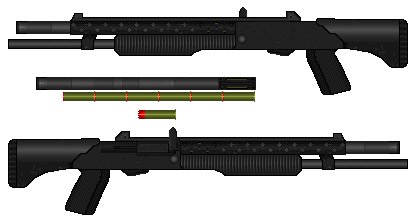
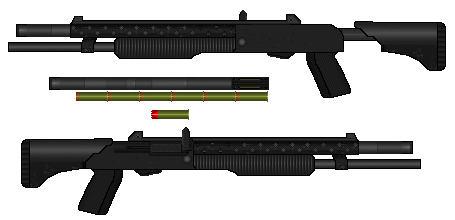
Add files via upload

diff --git a/WIM_EQ_Arms.html b/WIM_EQ_Arms.html
@@ -766,6 +766,62 @@ function includeHTML() {
 
 <Table width=1325 cellpadding=0 border=1 cellspacing=0>
 <TR>
+	<TH style="width:1325px; color:#EFEFEF; font-size:16px; font-family:Calibri;" colspan=6>Equestrian Rifle 2, "Mitchell"</TH>
+</TR>
+<TR>
+	<TH style="width:700px" rowspan=11><img src=EQ_ER2.png></TH>
+</TR>
+<TR>
+	<TD style="width:175px; color:#EFEFEF; font-size:16px; font-family:Courier;"><b>WEAPON TYPE:</TD>
+    <TD style="width:450px; color:#F0F0F0; font-size:14px; font-family:Courier;">Battle Rifle (Pegasi)</TD>
+</TR>
+<TR>
+	<TD style="width:175px; color:#EFEFEF; font-size:16px; font-family:Courier;"><b>MANUFACTURERS:</TD>
+	<TD style="width:450px; color:#F0F0F0; font-size:14px; font-family:Courier;">Appleloosa Equestrian Military Arsenal</TD>
+</TR>
+<TR>
+	<TD style="width:175px; color:#EFEFEF; font-size:16px; font-family:Courier;"><b>VARIANT MARKS:</TD>
+	<TD style="width:450px; color:#F0F0F0; font-size:14px; font-family:Courier;"><I>No official mark variations</TD>
+</TR>
+<TR>
+	<TD style="width:175px; color:#EFEFEF; font-size:16px; font-family:Courier;"><b>CALIBER:</TD>
+	<TD style="width:450px; color:#F0F0F0; font-size:14px; font-family:Courier;">9x35mm Equestrian</TD>
+</TR>
+<TR>
+	<TD style="width:175px; color:#EFEFEF; font-size:16px; font-family:Courier;"><b>CAPACITY:</TD>
+	<TD style="width:450px; color:#F0F0F0; font-size:14px; font-family:Courier;">10/20/30 Round Detachable Box Magazine</TD>
+</TR>
+<TR>
+	<TD style="width:175px; color:#EFEFEF; font-size:16px; font-family:Courier;"><b>EFFECTIVE RANGE:</TD>
+	<TD style="width:450px; color:#F0F0F0; font-size:14px; font-family:Courier;">200 meters</TD>
+</TR>
+<TR>
+	<TD style="width:175px; color:#EFEFEF; font-size:16px; font-family:Courier;"><b>BARREL LENGTH:</TD>
+	<TD style="width:450px; color:#F0F0F0; font-size:14px; font-family:Courier;">356mm/14 inches</TD>
+</TR>
+<TR>
+	<TD style="width:175px; color:#EFEFEF; font-size:16px; font-family:Courier;"><b>OVERALL LENGTH:</TD>
+	<TD style="width:450px; color:#F0F0F0; font-size:14px; font-family:Courier;">822mm/32.36 inches</TD>
+</TR>
+<TR>
+	<TD style="width:175px; color:#EFEFEF; font-size:16px; font-family:Courier;"><b>OVERALL HEIGHT:</TD>
+	<TD style="width:450px; color:#F0F0F0; font-size:14px; font-family:Courier;">198mm/7 inches</TD>
+</TR>
+<TR>
+	<TD style="width:175px; color:#EFEFEF; font-size:16px; font-family:Courier;"><b>TOTAL MASS:</TD>
+	<TD style="width:450px; color:#F0F0F0; font-size:14px; font-family:Courier;">9.1lbs/4.1kg</TD>
+</TR>
+<TR>
+</TR>
+<TR>
+	<TD width=1325 colspan=6><center><table width=1310><TR><TD>Pegasi air support, the only thing available for the first 1/3rd of the war, required a special rifle. The standard Sherman had no way to be secured to a Pegasi during flight. So, a special stock and grip module was adapted. Shaped like a triangle, with the narrow point towards the bottom of the grip, the struts on the side allow a Pegasi to lay their entire foreleg into the stock, and strap it in place, so they can securely hold the weapon with just one foreleg while in flight. While handy, development of the Sherman's replacement rendered this solution obsolete.</TD></TR></Table></TD>
+</TR>
+</Table>
+
+<HR style="width:800px;">
+
+<Table width=1325 cellpadding=0 border=1 cellspacing=0>
+<TR>
 	<TH style="width:1325px; color:#EFEFEF; font-size:16px; font-family:Calibri;" colspan=6>Equestrian Shotgun 1, "Chaffee"</TH>
 </TR>
 <TR>
@@ -801,7 +857,7 @@ function includeHTML() {
 </TR>
 <TR>
 	<TD style="width:175px; color:#EFEFEF; font-size:16px; font-family:Courier;"><b>OVERALL LENGTH:</TD>
-	<TD style="width:450px; color:#F0F0F0; font-size:14px; font-family:Courier;">800mm/31.5 inches</TD>
+	<TD style="width:450px; color:#F0F0F0; font-size:14px; font-family:Courier;">800mm/31.5 inches (stock retracted)<BR>876mm/34.5 inches (stock extended)</TD>
 </TR>
 <TR>
 	<TD style="width:175px; color:#EFEFEF; font-size:16px; font-family:Courier;"><b>OVERALL HEIGHT:</TD>
@@ -814,7 +870,8 @@ function includeHTML() {
 <TR>
 </TR>
 <TR>
-	<TD width=1325 colspan=6><center><table width=1310><TR><TD>Combat shotguns aren't often used in Human warfare, but in Equestria, where most things are scaled to about 3/4ths of that of Earth, a Combat Shotgun with decent reach can be nearly as effective as a sub-machine gun, and certainly with more power. The Chaffee is deployed by Rangers, Engineers, and some Line Infantry formations. With Sabot Slugs, it has an effective range longer than a Zhukov, with slight armor penetration ability.</TD></TR></Table></TD>
+	<TD width=1325 colspan=6><center><table width=1310><TR><TD>Combat shotguns aren't often used in Human warfare, but in Equestria, where most things are scaled to about 3/4ths of that of Earth, a Combat Shotgun with decent reach can be nearly as effective as a sub-machine gun, and certainly with more power. The Chaffee is deployed by Rangers, Engineers, and some Line Infantry formations. With Sabot Slugs, it has an effective range longer than a Zhukov, with slight armor penetration ability.<BR>
+	The mechanism of the Chaffee is quite unusual. The barrel from which the projectiles are fired, is on the bottom. The magazine is on the top. Because hand-feeding shells in a combat situation for non-Unicorns is very difficult, it was decided that an ejecting magazine with an automatic bolt catch would be the only effective solution. The magazine, once inserted all the way, will retract the bolt, and load a live shell into the chamber.</TD></TR></Table></TD>
 </TR>
 </Table>
 
